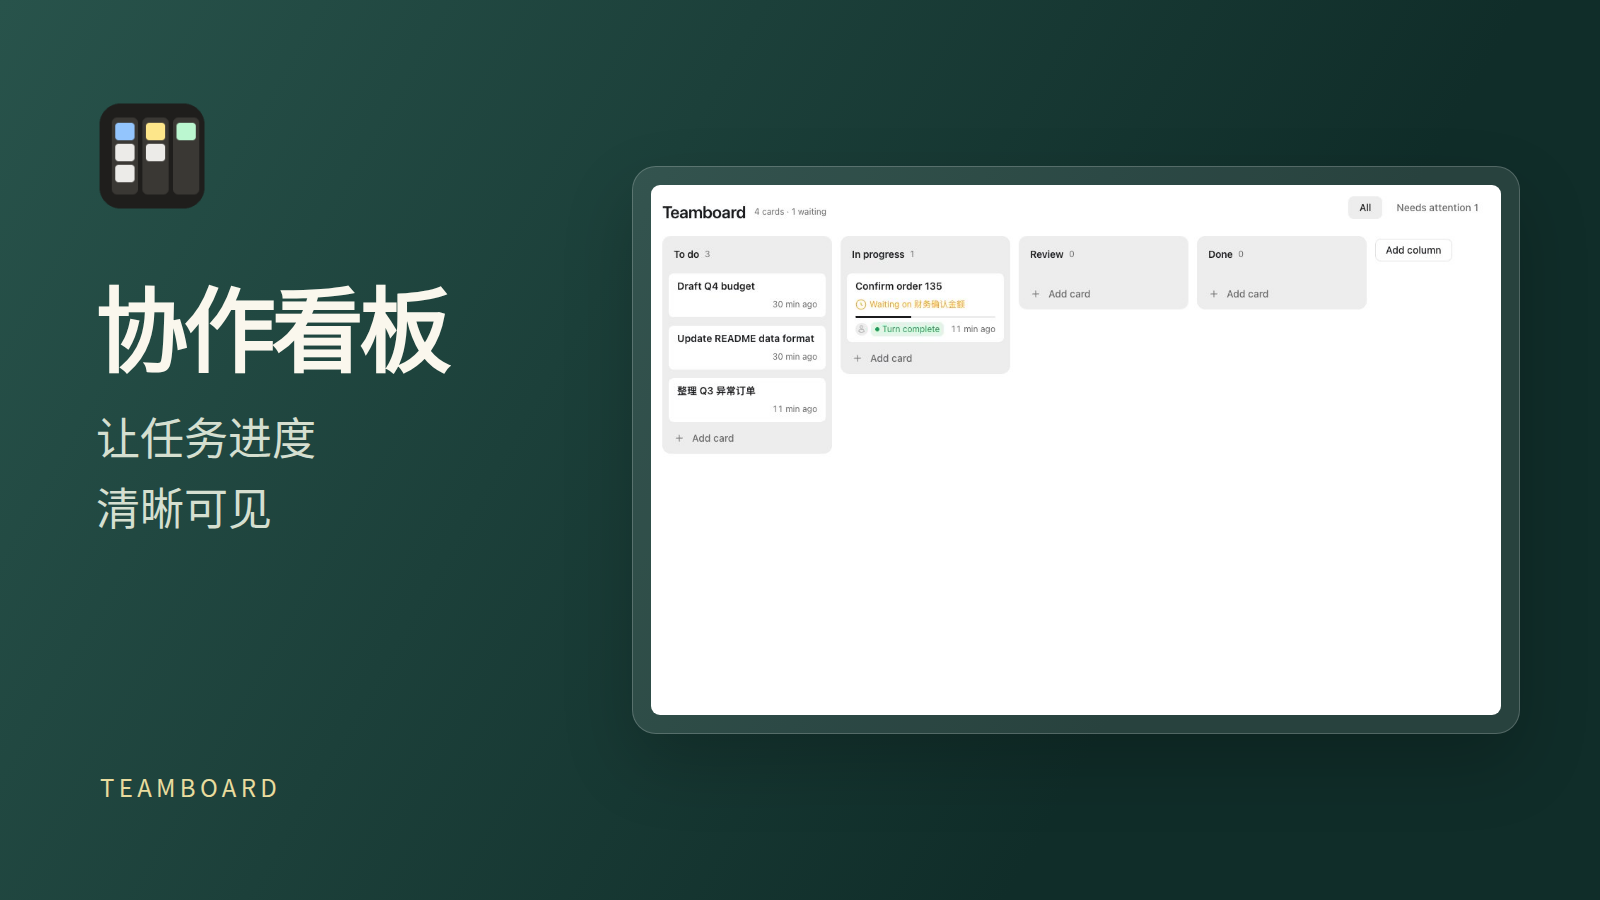
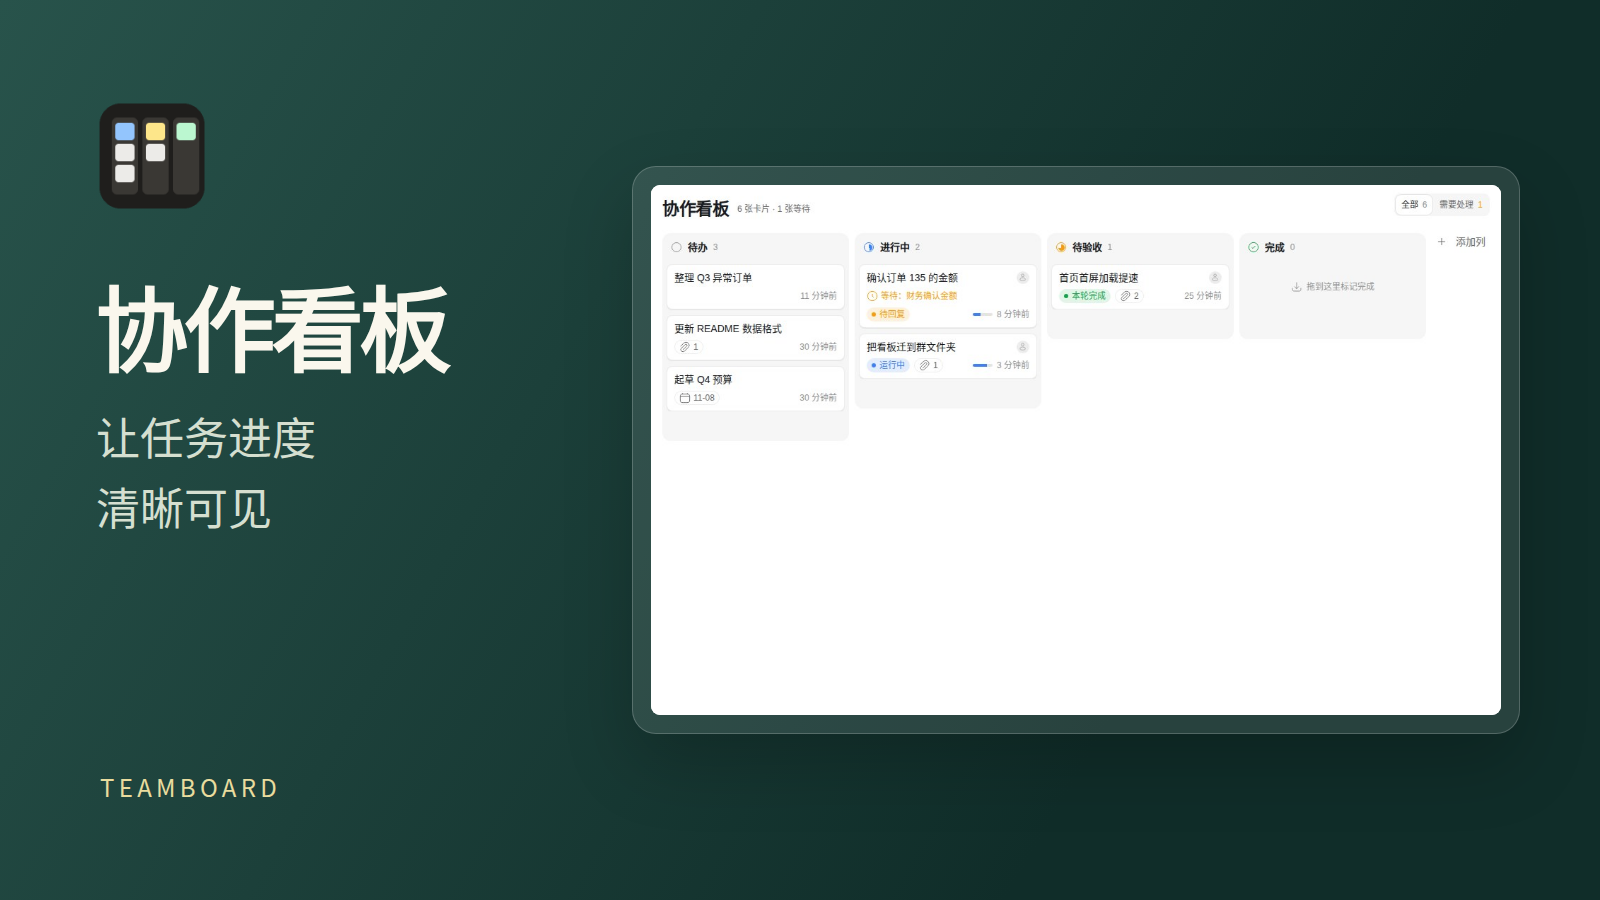
Teamboard 1.2.4: the market promo shows the current board (#198)
* Teamboard 1.2.4: the market promo shows the current board

The promo still framed the 10-24 English board with gray columns; 1.2.0 refreshed the screenshots but not the promo. Re-export kanban.html over the current screenshots/1.jpg and record its hash.

* verify: run on ubuntu-24.04

ubuntu-latest now resolves to ubuntu-26.04, where Playwright has no Chromium build, so office's own tests fail before running on every PR.

diff --git a/scripts/promo/README.md b/scripts/promo/README.md
@@ -17,7 +17,7 @@ All product images below already existed in the corresponding App before this ar
[8 lines of base64/hex data omitted]

diff --git a/sources/kanban/app/CHANGELOG.md b/sources/kanban/app/CHANGELOG.md
@@ -1,5 +1,9 @@
 # Changelog
 
+## 1.2.4
+
+- The market's first image shows the current board: the promo now frames the 1.2.0 board screenshot (`screenshots/1.jpg`) in place of the earlier English board with gray columns.
+
 ## 1.2.3
 
 - A markdown file shown in a card reads its front matter as the host draws it for a file: a property list instead of a heading. A card's own note is not a file and is drawn as before.
